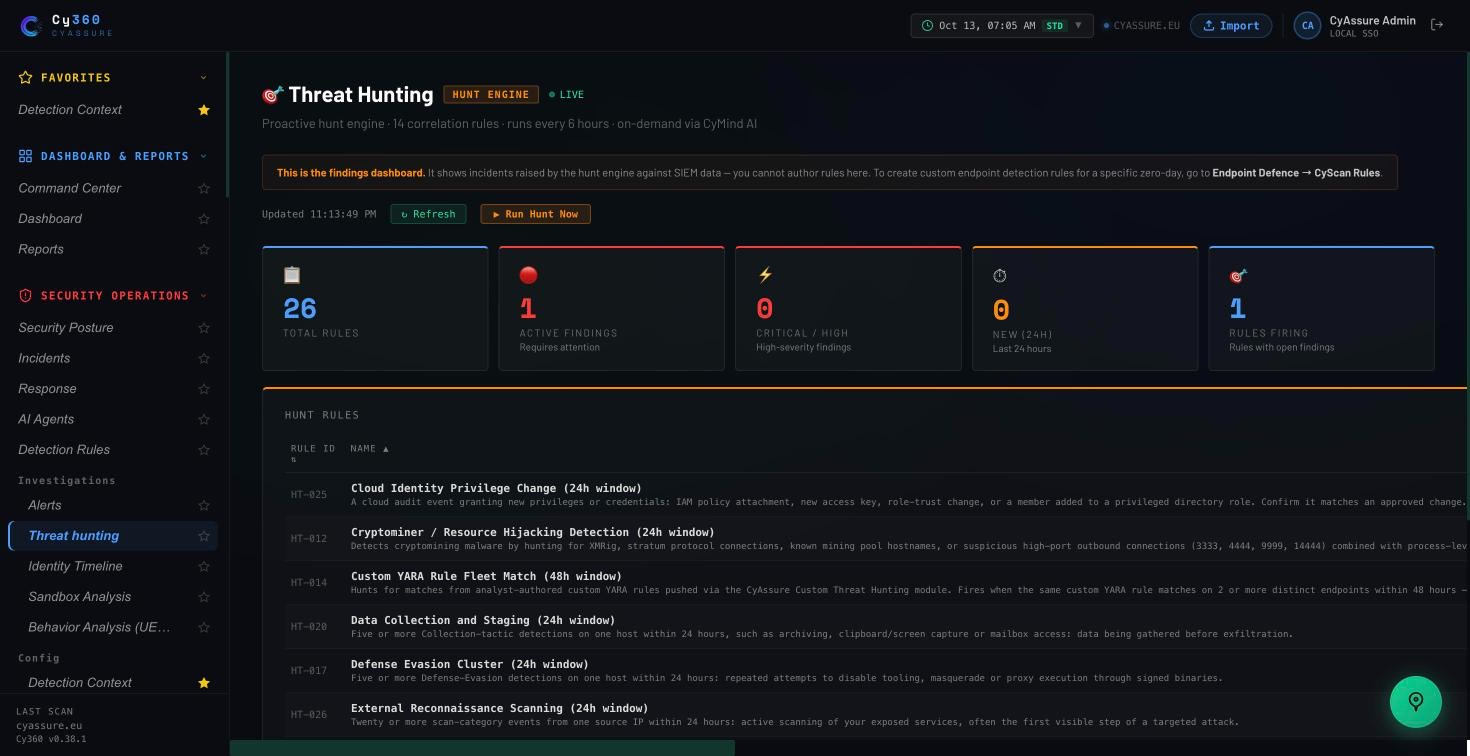
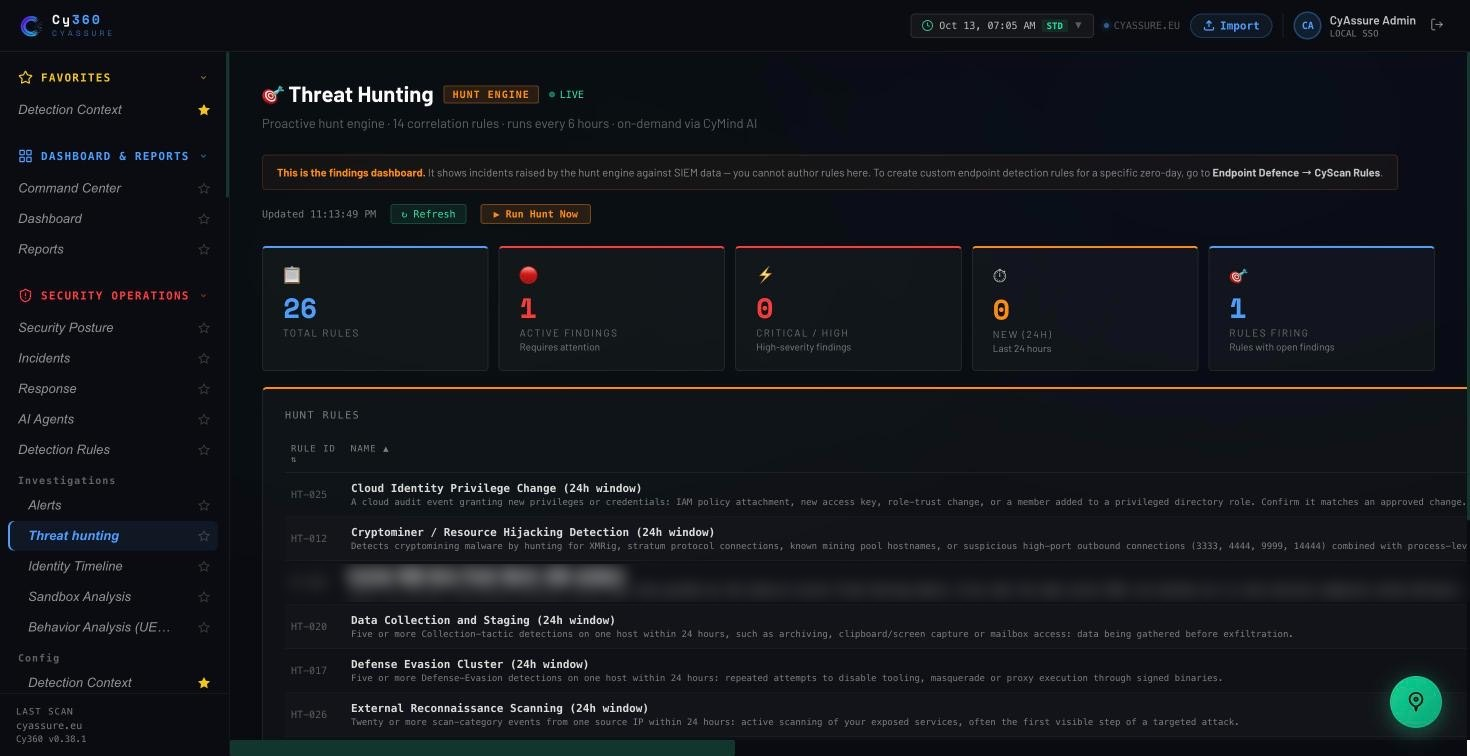
docs: describe detection rules without naming the underlying rule formats
Rule types are referred to by product name only (CyLogic, CyScan). Also
blurs the hunt-rule row in the Threat hunting screenshot that named the
file-scanning rule format.

Changed region(s): [[0.2143, 0.7302, 0.6429, 0.791], [0.7959, 0.7606, 0.9796, 0.791], [0.6735, 0.7606, 0.7653, 0.791]]

diff --git a/src/content/docs/detection-rules-and-context.md b/src/content/docs/detection-rules-and-context.md
@@ -11,22 +11,22 @@ Changes on both pages take effect immediately — no restart and no waiting for 
 
 ![Security Operations → Detection Rules](/docs-img/detection-rules.jpg)
 
-### CyLogic (Sigma rules)
+### CyLogic
 
-**What it is.** Log-pattern rules in the open **Sigma** format: the bundled CyAssure rules, a large imported SigmaHQ corpus (thousands of rules covering Windows, Linux, cloud and SaaS audit logs), and your own custom rules.
+**What it is.** CyAssure's log-pattern detection rules: the bundled CyAssure rules, a large library of imported community rules (thousands of rules covering Windows, Linux, cloud and SaaS audit logs), and your own custom rules.
 
 **How to use it.**
 
 - Search by title, rule ID or ATT&CK technique and filter by source (*bundled*, *imported*, *custom*).
 - The table shows each rule's level, MITRE ATT&CK techniques, log source and source; use the **Enabled** toggle to switch a rule on or off.
 - **Refresh Corpus Now** re-reads the rule files on disk.
-- **+ New Custom Rule** opens an editor for your own Sigma rule.
+- **+ New Custom Rule** opens an editor for your own CyLogic rule.
 
-**Why it matters.** Sigma is the industry's shared detection language, so you can adopt community rules for new threats the day they are published.
+**Why it matters.** CyLogic uses a widely adopted rule format, so new community detections for emerging threats can be added the day they are published.
 
-### CyScan (YARA rules)
+### CyScan
 
-**What it is.** File-scanning rules used by the CyEDR agent's malware scan. The bundled CyAssure ruleset is shown read-only; add your own custom YARA rules for a specific threat (for example a zero-day's indicators). Custom rules are pushed to endpoints and used by **Run Scan** and the policy's CyScan setting.
+**What it is.** File-scanning rules used by the CyEDR agent's malware scan. The bundled CyAssure ruleset is shown read-only; add your own custom CyScan rules for a specific threat (for example a zero-day's indicators). Custom rules are pushed to endpoints and used by **Run Scan** and the policy's CyScan setting.
 
 ### Correlation
 

diff --git a/src/content/docs/dashboards-and-reports.md b/src/content/docs/dashboards-and-reports.md
@@ -63,7 +63,7 @@ The Dashboard page holds five tabs.
 
 The red dashed line before stage 10 is the *lateral-movement line*: attacks stopped before it never spread.
 
-**Click a stage** to open its details underneath: the alerts tagged with that tactic, the attacks that reached it, which are still open, the detection rules mapped to the stage (Correlation, Sigma/CyLogic, Hunt and EDR rules) and the Cy360 capabilities that act there with their live state (Active, Shadow mode, Not configured, In Marketplace, Needs licence), each linking to its page.
+**Click a stage** to open its details underneath: the alerts tagged with that tactic, the attacks that reached it, which are still open, the detection rules mapped to the stage (Correlation, CyLogic, Hunt and EDR rules) and the Cy360 capabilities that act there with their live state (Active, Shadow mode, Not configured, In Marketplace, Needs licence), each linking to its page.
 
 **Why it matters.** It shows where in the kill chain you catch attackers and where you are blind, so you know which detections or integrations to add.
 

diff --git a/src/content/docs/troubleshooting.md b/src/content/docs/troubleshooting.md
@@ -69,7 +69,7 @@ Container logs from before an update are archived for 30 days under `/opt/cyassu
 | An incident was closed automatically and shouldn't have been | AI triage judge or FP auto-close | Reopen it (its audit trail shows why it closed); raise the threshold in Settings → FP Auto-Close if it happens often. |
 | No new alerts for 24 hours, and a "SIEM monitoring coverage" exposure incident | Agents or log sources stopped reporting | Check Integration Health and Fleet; the incident resolves when alerts flow again. |
 | Threat hunting always shows 0 matches | No entity crossed a rule's threshold, or rules failing | *Run Hunt Now* reports rules run, matches and failures. |
-| CyLogic (Sigma) tab empty | Rule corpus not loaded | Click **Refresh Corpus Now**; if still empty, update to the latest images. |
+| CyLogic tab empty | Rule corpus not loaded | Click **Refresh Corpus Now**; if still empty, update to the latest images. |
 
 ## Vulnerability Management
 

diff --git a/src/content/docs/investigations.md b/src/content/docs/investigations.md
@@ -29,7 +29,7 @@ Every alert in an incident links straight to its raw record here. Endpoint opera
 
 **What is on the page.** Tiles for total rules, active findings, critical/high findings, new findings in the last 24 hours and rules firing; the **Hunt Rules** list with each rule's window and description; and the findings themselves. Findings become incidents tagged with the rule's ATT&CK tactics, so they appear on the kill-chain views.
 
-This page shows findings; it is not where you author endpoint rules. To create a custom detection for a specific threat, use [Detection Rules → CyScan](/docs/detection-rules-and-context#cyscan-yara-rules).
+This page shows findings; it is not where you author endpoint rules. To create a custom detection for a specific threat, use [Detection Rules → CyScan](/docs/detection-rules-and-context#cyscan).
 
 ## Identity Timeline
 

diff --git a/src/content/docs/endpoint-defence.md b/src/content/docs/endpoint-defence.md
@@ -65,7 +65,7 @@ Detections also flow into Security Operations → Incidents, where they are corr
 
 | Category | What it controls |
 |---|---|
-| **Threat Prevention** | Real-time protection, behavioural AI, CyScan (YARA) scanning, ransomware rollback, sensitivity (Low / High / Aggressive), auto-quarantine |
+| **Threat Prevention** | Real-time protection, behavioural AI, CyScan malware scanning, ransomware rollback, sensitivity (Low / High / Aggressive), auto-quarantine |
 | **Device Control** | USB, removable media, Wi-Fi, Bluetooth, camera, microphone (block or read-only) |
 | **App Control** | Allow/block lists, publisher and hash rules, script-engine restrictions |
 | **Network Control** | Host firewall, DNS sinkhole of command-and-control domains, the EDL blocklist, forced proxy (for example to send AI traffic through the AI Security Gateway) |

diff --git a/src/content/docs/response-and-remediation.md b/src/content/docs/response-and-remediation.md
@@ -25,7 +25,7 @@ The page has four tabs: **Response Console**, **Command History**, **Interactive
 | Block Hash | Adds a file hash to the agent's local blocklist so it can no longer execute |
 | Quarantine File | Moves a file into the agent's quarantine vault |
 | Rollback | Reverses changes made by a detected threat, using the ransomware-rollback protection in the endpoint's policy |
-| Run Scan | Runs an on-demand malware scan with the CyScan (YARA) rules |
+| Run Scan | Runs an on-demand malware scan with the CyScan file-scanning rules |
 | Collect Forensics | Collects a forensic package from the endpoint |
 | Collect Sandbox Sample | Uploads a file from the endpoint for sandbox detonation |
 | Network Quarantine (NAC) | Asks your network access control system to quarantine the device (see Settings → Network Quarantine) |
